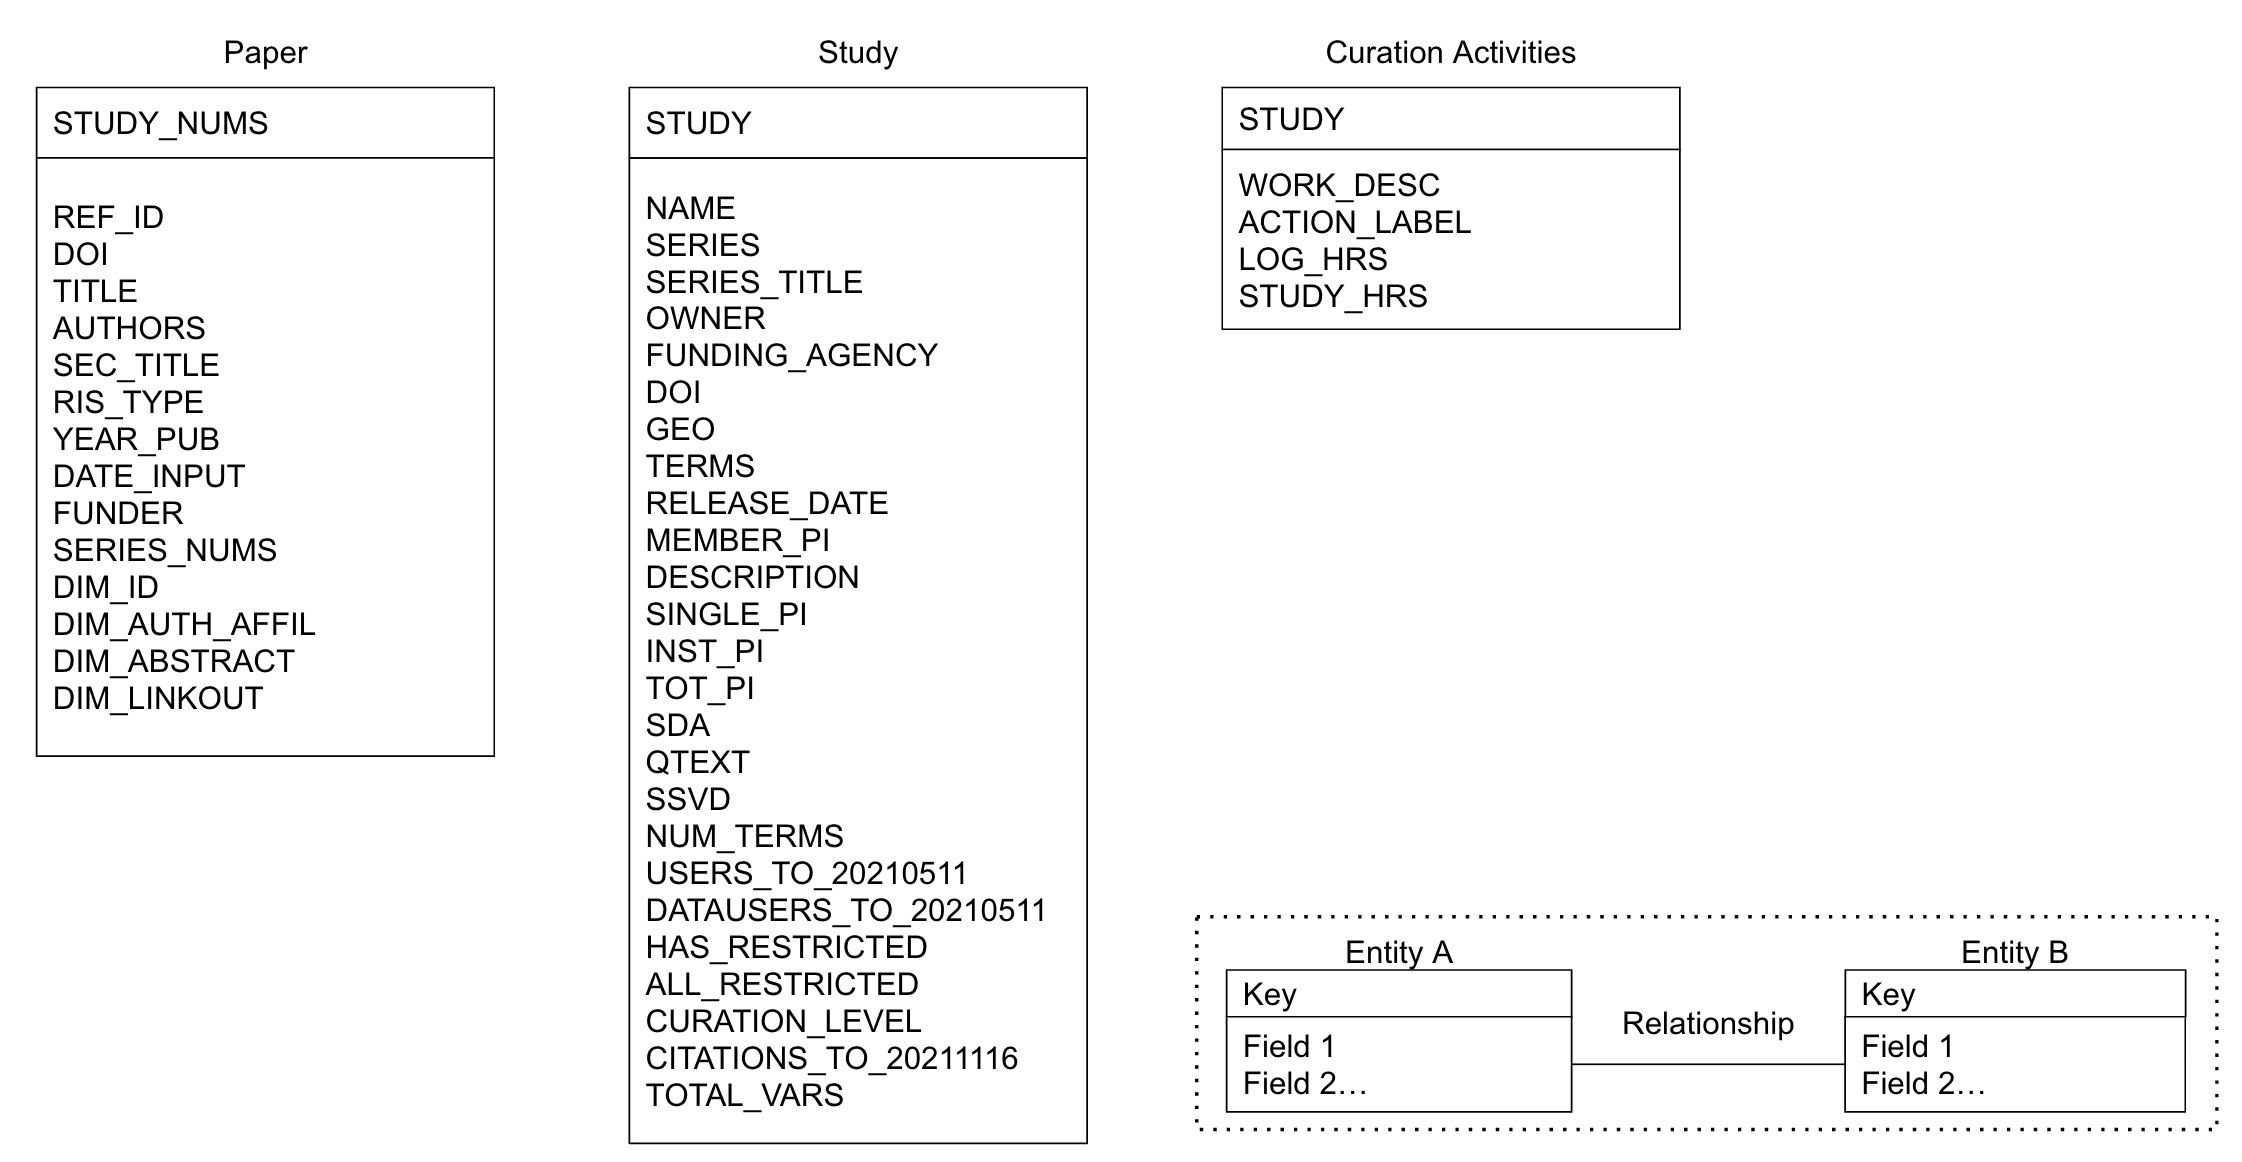
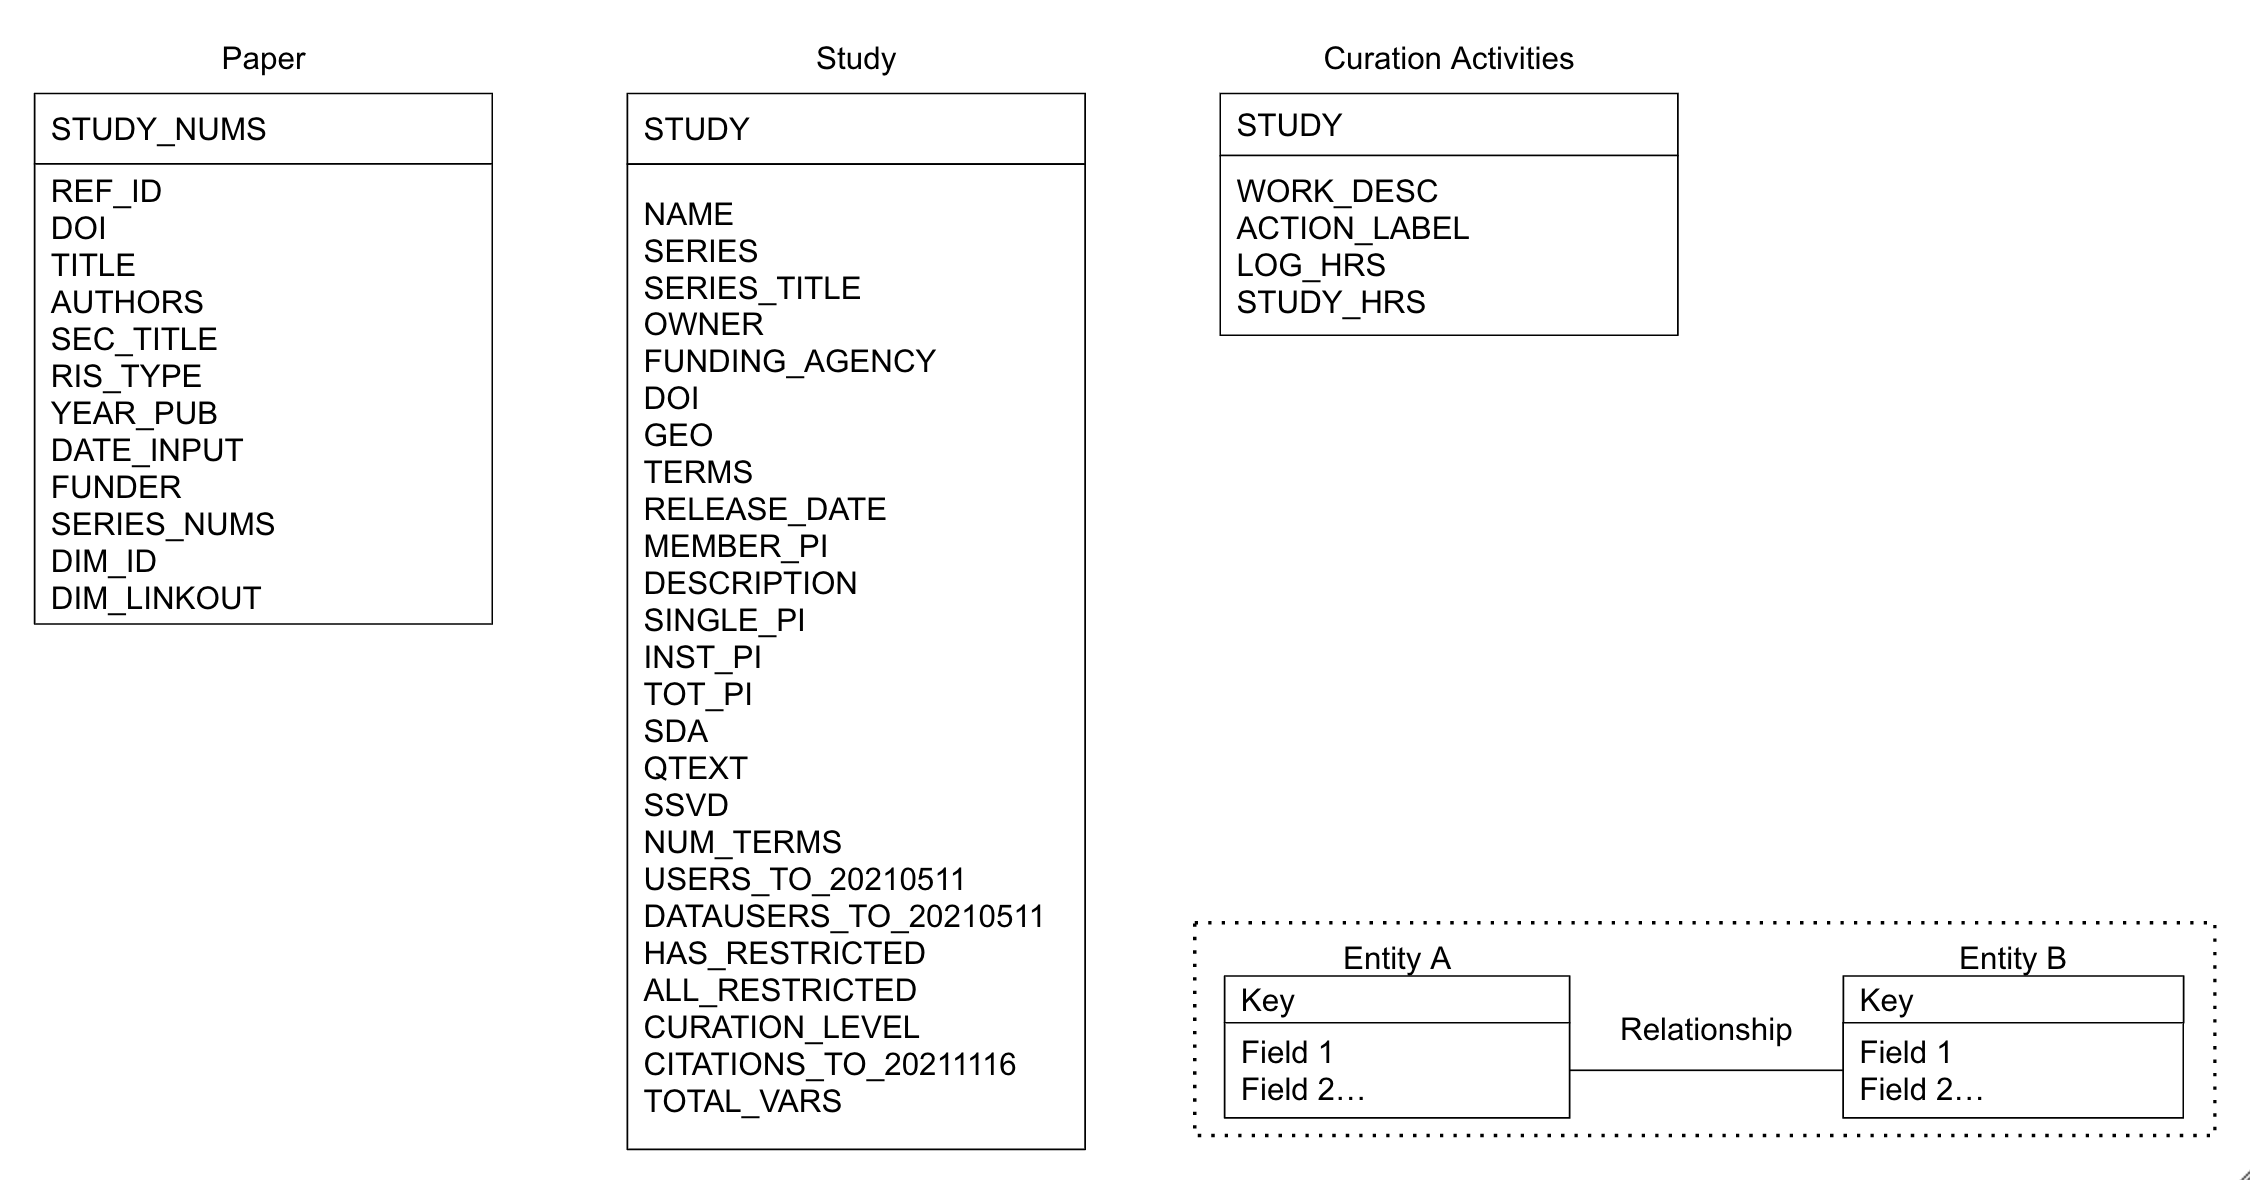
Update documentation

diff --git a/README.md b/README.md
@@ -52,9 +52,7 @@ This repository contains: 1) original datasets analyzed in MICA project publishe
     - DATE_INPUT = year paper was first published
     - SERIES_NUMS = ICPSR series number of studies used in paper
     - STUDY_NUMS = ICPSR study numbers used in paper
-    - DIM_ID = Dimensions database identifier
-    - DIM_AUTH_AFFIL = Dimensions database author affiliations
-    - DIM_ABSTRACT = Dimensions database paper abstract
+    - DIM_ID = Dimensions database identifierxs
     - DIM_LINKOUT = Dimensions database URL link to full text
 <!--`/data_transform/ICPSR_PROCESSING_HISTORY.csv`-->
 <!--    - STUDY = ICPSR study number - TOTAL_LINES = total lines of code in processing history syntax file-->
